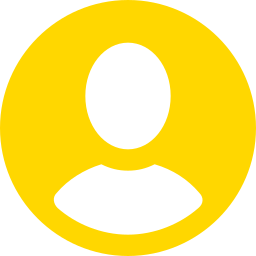
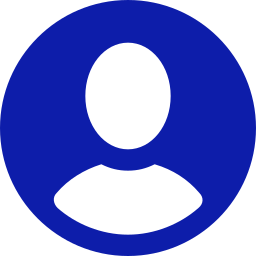
Anasayfadaki yüksek puanlı filmler kısmının tasarımı değiştirildi. Kapak fotoğrafı ve profil fotoğrafları mavi temaya uygun hale getirildi.

diff --git a/MovieApp/MovieApp.Panel.UI/wwwroot/main/assets/CSS/main.css b/MovieApp/MovieApp.Panel.UI/wwwroot/main/assets/CSS/main.css
@@ -279,7 +279,7 @@ body {
 }
 
 .movie:hover {
-    background-color: #0c177a;
+    background-color: #0d1daa;
     border-radius: 10px;
     /*buraya kadar*/
     -webkit-transform: scale(1.1);
@@ -288,7 +288,7 @@ body {
 
     .movie:hover .card-content {
         opacity: 1;
-        background-color: #0c177a;
+        background-color: #0d1daa;
         border-radius: 10px;
         color: #fff;
     }
@@ -311,13 +311,15 @@ body {
     margin-right: 0;
     /*buralar yeni*/
     min-width: 323px;
-    background: rgba(0, 0, 0, 0.70);
+    /*background: rgba(0, 0, 0, 0.70);*/
     border-radius: 20px;
     display: flex;
     color: #ffff;
     min-height: 196px;
     align-items: center;
     padding: 20px;
+    background-image: url(../img/png/BACKGROUND.png);
+    box-shadow: 0 0 50px rgba(42 128 241 / 25%);
 }
 /*buralar yeni*/
 .card-cont {
@@ -332,18 +334,18 @@ body {
     padding: 3px;
     width: 100px;
     border-radius: 11px;
-    border: 1px solid #000F93;
+    border: 1px solid #ffff;
     background: rgba(0, 15, 147, 0.12);
-    color: #1328E3;
+    color: #fff;
     margin-bottom: 15px;
     text-align: center;
     cursor: pointer;
 }
 
     .film-category:hover {
-        background-color: #1328E3;
-        border: 1px solid black;
-        color: #fff;
+        background-color: #ffff;
+        border: 1px solid #fff;
+        color: #000;
     }
 /*buraya kadar*/
 .cards img {
